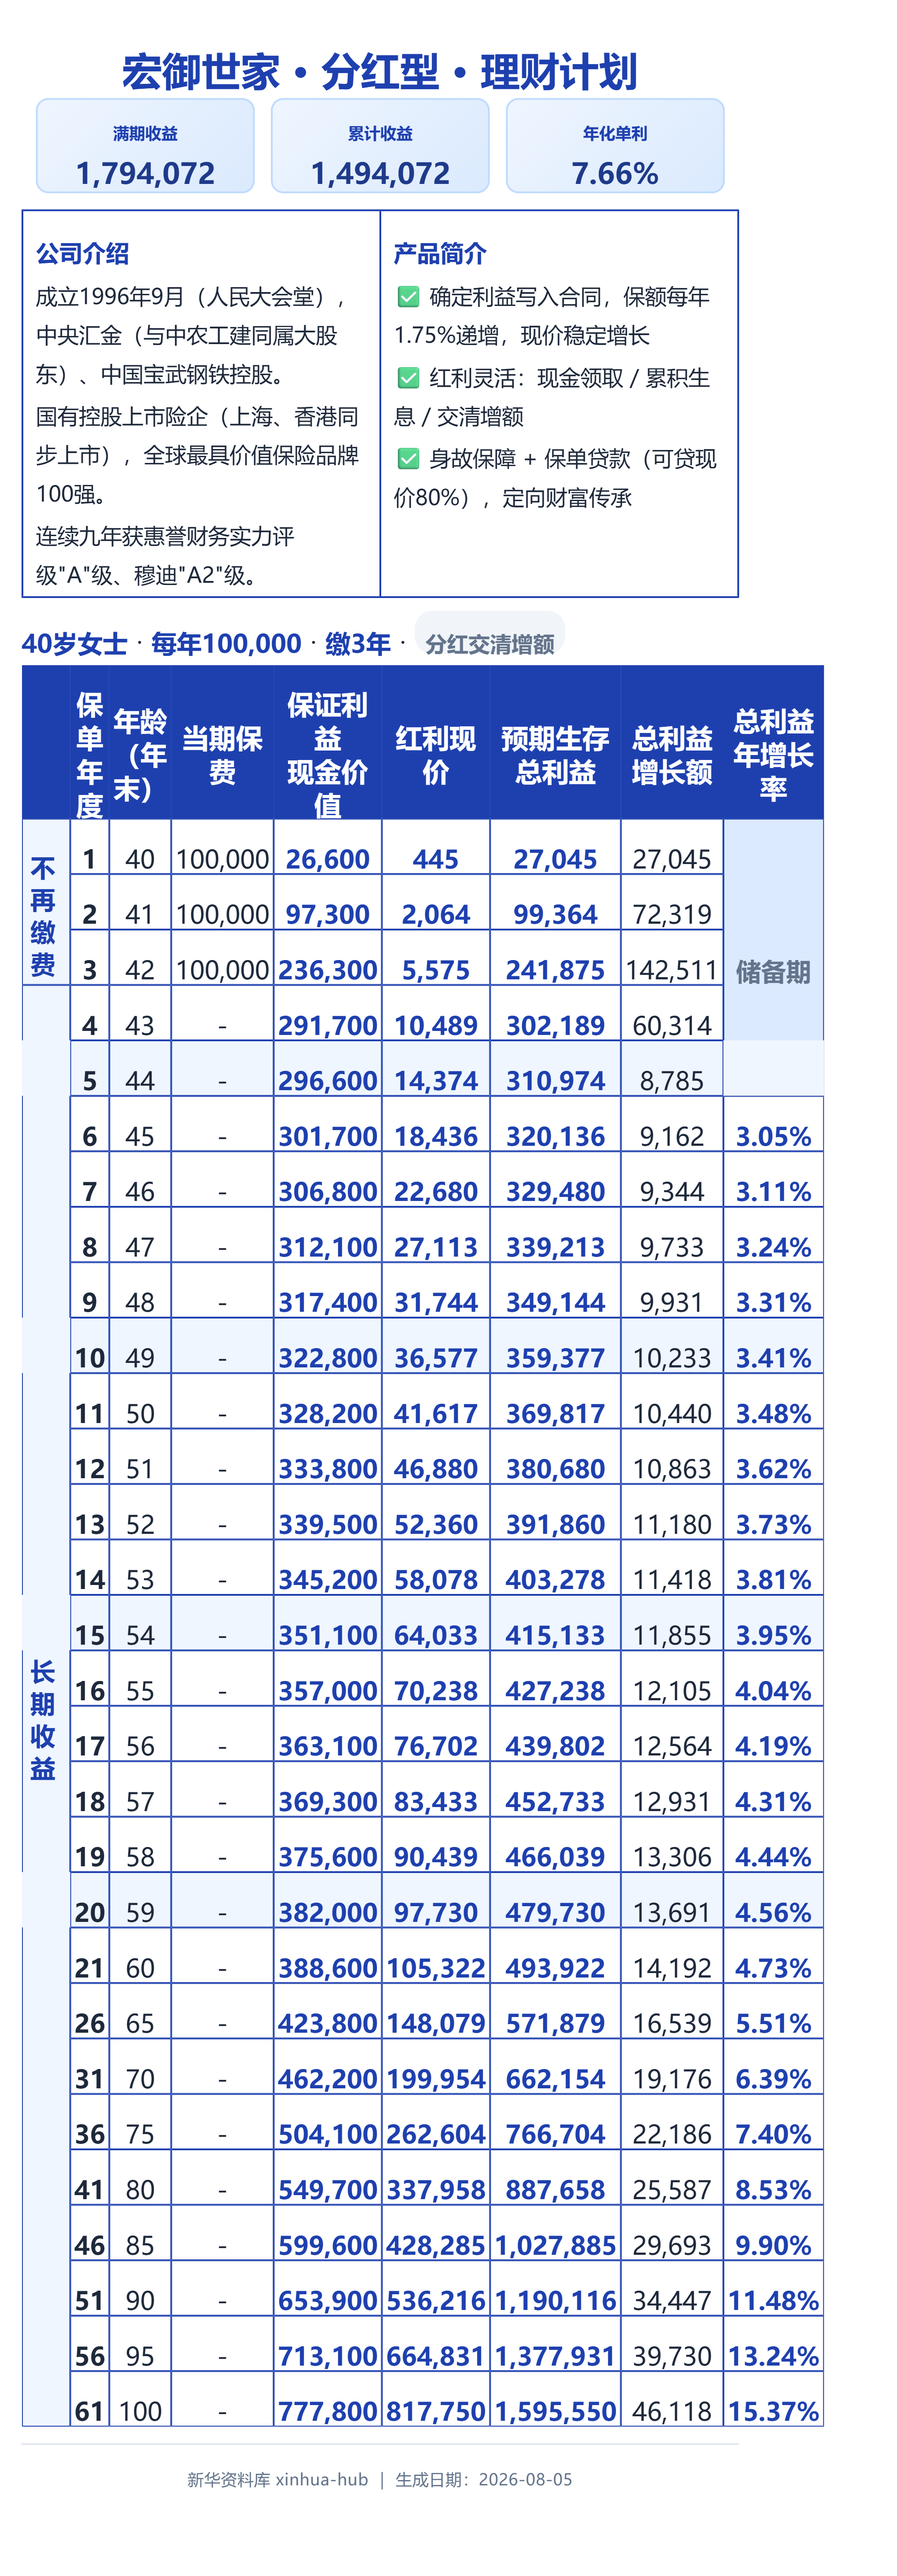
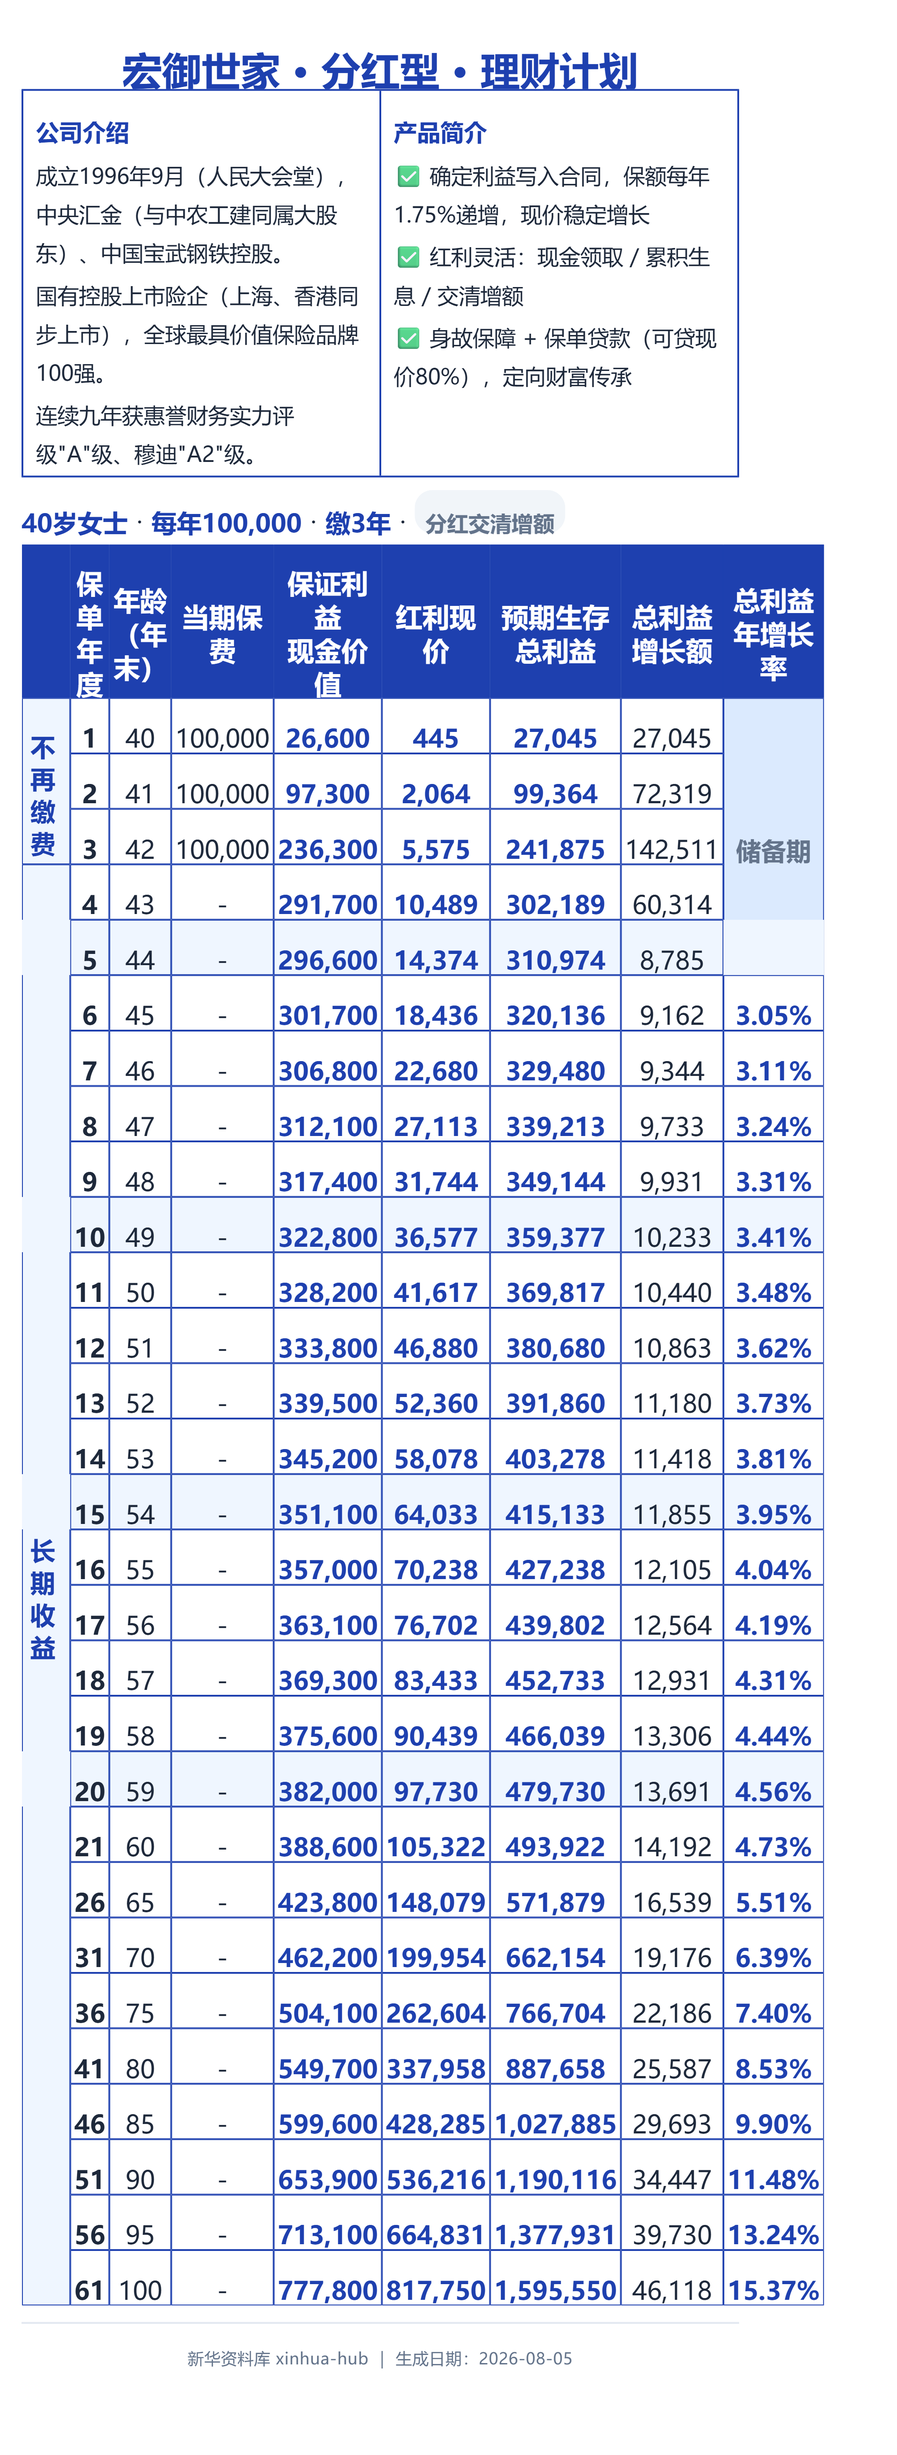
fix(acceptance): V4视觉优化①盈满鑫导出移除顶部三收益卡并统一表格垂直居中②全站五款导出隐藏顶部临时收益卡、修复宏安/宏愿卡片作用域bug、全表vertical-align:middle

diff --git a/calculator-yingmanxin.html b/calculator-yingmanxin.html
@@ -65,7 +65,7 @@ body.capturing .table-scroll{overflow-x:visible !important;}
 
 .top-info{display:block;}
 .info-table{width:100%;border-collapse:collapse;font-size:16px;border:2px solid var(--primary);table-layout:auto;}
-.info-table th,.info-table td{border:1px solid var(--primary);padding:8px 6px;text-align:center;white-space:nowrap;}
+.info-table th,.info-table td{border:1px solid var(--primary);padding:8px 6px;text-align:center;vertical-align:middle;white-space:nowrap;}
 .info-table th{background:var(--primary);color:#fff;font-weight:700;}
 .info-table td{background:#fff;color:#1E293B;font-weight:600;}
 .info-table td.label{background:var(--primary-bg);color:var(--primary);font-weight:700;}
@@ -166,7 +166,7 @@ body.capturing .table-scroll{overflow-x:visible !important;}
 .exp-h{background:var(--primary);color:#fff;font-size:18px;font-weight:700;padding:6px 8px;margin:-8px -10px 6px;box-sizing:border-box;}
 .exp-b{font-size:15px;line-height:1.45;color:#1E293B;}
 .exp-info{width:100%;border-collapse:collapse;table-layout:fixed;font-size:19px;border:2px solid var(--primary);box-sizing:border-box;}
-.exp-info th,.exp-info td{border:1px solid var(--primary);padding:5px 3px;text-align:center;box-sizing:border-box;font-weight:600;color:#1E293B;}
+.exp-info th,.exp-info td{border:1px solid var(--primary);padding:5px 3px;text-align:center;vertical-align:middle;box-sizing:border-box;font-weight:600;color:#1E293B;}
 .exp-info th{background:var(--primary-bg);color:var(--primary);font-weight:700;}
 .exp-stats{display:flex;gap:8px;margin-top:8px;flex-wrap:wrap;}
 .exp-stats span{background:var(--primary-bg);border:1px solid #BFDBFE;color:var(--primary);padding:5px 10px;font-weight:700;font-size:18px;border-radius:6px;}
@@ -181,11 +181,11 @@ body.capturing .table-scroll{overflow-x:visible !important;}
 .exp-main tbody tr:nth-child(even){background:#F0F9FF;}
 .exp-main .exp-total{background:#DBEAFE;}
 .exp-main .exp-reserve{background:#DBEAFE;color:#475569;font-weight:800;text-align:center;vertical-align:middle;font-size:20px;letter-spacing:1px;}
-.exp-dep tfoot td{border:1px solid var(--primary);padding:5px 2px;box-sizing:border-box;}
+.exp-dep tfoot td{border:1px solid var(--primary);padding:5px 2px;vertical-align:middle;box-sizing:border-box;}
 .exp-dep .exp-foot-label{text-align:right;font-weight:700;background:var(--primary-bg);color:var(--primary);}
 .exp-dep .exp-foot-val{font-weight:800;color:var(--primary);}
 .exp-combo{width:100%;border-collapse:collapse;table-layout:fixed;font-size:20px;box-sizing:border-box;}
-.exp-combo td{border:1px solid var(--primary);padding:4px 6px;box-sizing:border-box;width:25%;}
+.exp-combo td{border:1px solid var(--primary);padding:4px 6px;vertical-align:middle;box-sizing:border-box;width:25%;}
 .exp-combo .cl{background:var(--primary-bg);color:var(--primary);font-weight:700;}
 .exp-combo .cv{text-align:right;font-weight:700;color:#1E293B;}
 .exp-combo .hl{background:#DBEAFE;}
@@ -210,12 +210,6 @@ body.capturing .table-scroll{overflow-x:visible !important;}
   body.capturing .km-card{padding:18px 8px !important;border-radius:14px !important;border-width:2px !important;}
   body.capturing .km-label{font-size:18px !important;margin-bottom:8px !important;}
   body.capturing .km-val{font-size:32px !important;line-height:1.2 !important;}
-
-  /* 独立导出模板中的核心指标卡（与网页版指标卡数据一致） */
-  .exp-km{display:flex;gap:18px;margin:18px 0 12px;}
-  .exp-km .km-card{flex:1;background:linear-gradient(135deg,#EFF6FF 0%,#DBEAFE 100%);border:2px solid #BFDBFE;border-radius:14px;padding:18px 8px;text-align:center;box-sizing:border-box;}
-  .exp-km .km-label{font-size:18px;color:#1E40AF;font-weight:700;margin-bottom:8px;line-height:1.1;}
-  .exp-km .km-val{font-size:32px;font-weight:800;color:#1E3A8A;line-height:1.2;word-break:break-word;}
 
 </style>
 </head>
@@ -708,12 +702,6 @@ function buildExport(rows, dep, p, reserveYears){
   root.innerHTML = `
   <div class="exp-wrap">
     <div class="exp-title">盈满鑫两全保险 · 分红型 · 理财计划书</div>
-
-    <div class="exp-km">
-      <div class="km-card"><div class="km-label">满期收益</div><div class="km-val">${document.getElementById('kmMaturity') ? document.getElementById('kmMaturity').textContent : '—'}</div></div>
-      <div class="km-card"><div class="km-label">累计收益</div><div class="km-val">${document.getElementById('kmCum') ? document.getElementById('kmCum').textContent : '—'}</div></div>
-      <div class="km-card"><div class="km-label">年化单利</div><div class="km-val">${document.getElementById('kmRate') ? document.getElementById('kmRate').textContent : '—'}</div></div>
-    </div>
 
     <div class="exp-row2">
       <div class="exp-box">

diff --git a/calculator-hongan.html b/calculator-hongan.html
@@ -56,7 +56,7 @@ input,select{padding:9px 12px;border:1.5px solid var(--line);border-radius:8px;f
 
 .top-info{display:block;}
 .info-table{width:100%;border-collapse:collapse;font-size:14px;border:2px solid var(--primary);table-layout:auto;}
-.info-table th,.info-table td{border:1px solid var(--primary);padding:8px 6px;text-align:center;white-space:nowrap;}
+.info-table th,.info-table td{border:1px solid var(--primary);padding:8px 6px;text-align:center;vertical-align:middle;white-space:nowrap;}
 .info-table th{background:var(--primary);color:#fff;font-weight:700;}
 .info-table td{background:#fff;color:#1E293B;font-weight:600;}
 .info-table td.label{background:var(--primary-bg);color:var(--primary);font-weight:700;}
@@ -87,7 +87,7 @@ body.capturing .info-table td{white-space:nowrap !important;}
 body.capturing .intro-row,.body.capturing .stats-row,.body.capturing .stat-inline-box{font-size:26px !important;line-height:1.7 !important;}
 body.capturing .reserve-merged{font-size:28px !important;font-weight:800 !important;color:#475569 !important;letter-spacing:1px !important;}
 body.capturing .exp-foot-bar{display:block !important;box-sizing:border-box;margin:18px 0 0;padding:14px 16px;font-size:18px !important;color:#64748B;border-top:2px solid #E2E8F0;text-align:center;letter-spacing:.5px;}
-body.capturing .key-metrics{display:flex !important;gap:18px !important;margin:24px 0 18px !important;}
+body.capturing .key-metrics{display:none !important;}
 body.capturing .km-card{padding:18px 8px !important;border-radius:14px !important;border-width:2px !important;}
 body.capturing .km-label{font-size:18px !important;margin-bottom:8px !important;}
 body.capturing .km-val{font-size:32px !important;line-height:1.2 !important;}
@@ -470,8 +470,8 @@ function generate(){
   document.getElementById('statRate').textContent = (currentRate * 100).toFixed(2) + '%';
 
   updateFormText();
-}
   (function(){var km=document.getElementById('keyMetrics');if(!km)return;var lr=rows[rows.length-1];document.getElementById('kmMaturity').textContent=fmt(lr.survival);document.getElementById('kmCum').textContent=fmt(lastSurvival-totalPrem);document.getElementById('kmRate').textContent=((lastSurvival-totalPrem)/(totalPrem*maxYear)*100).toFixed(2)+'%';})();
+}
 
 async function downloadImage(){
   document.body.classList.add('capturing');

diff --git a/calculator-hongyuan.html b/calculator-hongyuan.html
@@ -43,7 +43,7 @@ body.capturing .intro-row,.body.capturing .side-stats{font-size:26px !important;
 body.capturing .reserve-cell{font-size:28px !important;font-weight:800 !important;color:#475569 !important;letter-spacing:1px !important;}
 body.capturing .exp-foot-bar{display:block !important;box-sizing:border-box;margin:18px 0 0;padding:14px 16px;font-size:18px !important;color:#64748B;border-top:2px solid #E2E8F0;text-align:center;letter-spacing:.5px;}
 .exp-foot-bar{display:none;}
-body.capturing .key-metrics{display:flex !important;gap:18px !important;margin:24px 0 18px !important;}
+body.capturing .key-metrics{display:none !important;}
 body.capturing .km-card{padding:18px 8px !important;border-radius:14px !important;border-width:2px !important;}
 body.capturing .km-label{font-size:18px !important;margin-bottom:8px !important;}
 body.capturing .km-val{font-size:32px !important;line-height:1.2 !important;}
@@ -75,7 +75,7 @@ body.capturing .info-table th,body.capturing .info-table td{padding:8px 6px !imp
 
 .top-info{display:block;}
 .info-table{width:100%;border-collapse:collapse;font-size:14px;border:2px solid var(--primary);table-layout:auto;}
-.info-table th,.info-table td{border:1px solid var(--primary);padding:8px 6px;text-align:center;white-space:nowrap;}
+.info-table th,.info-table td{border:1px solid var(--primary);padding:8px 6px;text-align:center;vertical-align:middle;white-space:nowrap;}
 .info-table th{background:var(--primary);color:#fff;font-weight:700;}
 .info-table td{background:#fff;color:#1E293B;font-weight:600;}
 .info-table td.label{background:var(--primary-bg);color:var(--primary);font-weight:700;}
@@ -458,8 +458,8 @@ function generate(){
     `VIP${genderStr}，今年${age}周岁，${cfg.label}、年交${fmt(premium)}元，购买宏愿人生养老年金 （分红型），${annuityAge}岁起领（${modeStr}）`;
 
   updateFormText();
-}
   (function(){var km=document.getElementById('keyMetrics');if(!km)return;var lr=rows[rows.length-1];document.getElementById('kmMaturity').textContent=fmt(lr.survival);document.getElementById('kmCum').textContent=fmt(lr.survival-totalPrem);document.getElementById('kmRate').textContent=((lr.survival-totalPrem)/(totalPrem*maxYear)*100).toFixed(2)+'%';})();
+}
 
 async function downloadImage(){
   document.body.classList.add('capturing');

diff --git a/calculator-hongyu.html b/calculator-hongyu.html
@@ -39,7 +39,7 @@ table{width:100%;border-collapse:collapse;font-size:14px;min-width:860px;}
 thead th{background:#1E40AF;color:#fff;padding:11px 8px;text-align:center;font-weight:700;font-size:17px;position:sticky;top:0;}
 tbody td{font-size:17px;padding:10px 6px;text-align:center;border-bottom:1px solid var(--line);white-space:nowrap;}
 /* 表格边框统一：与宏安/宏愿/盈满鑫一致，全网格 1px #1E40AF（2026-08-05 V4验收） */
-#resultTable th,#resultTable td{border:1px solid #1E40AF;}
+#resultTable th,#resultTable td{border:1px solid #1E40AF;vertical-align:middle;}
 tbody tr.row-5y{background:#EFF6FF;}
 tbody tr.row-last{background:#DBEAFE;}
 tbody tr.row-5y td,tbody tr.row-last td{background:transparent;}
@@ -106,7 +106,7 @@ body.capturing table{min-width:0 !important;font-size:var(--cap-fs,28px) !import
 body.capturing thead th{position:static !important;font-size:calc(var(--cap-fs,28px) + 2px) !important;line-height:1.25 !important;padding:10px 4px !important;white-space:normal !important;}
 body.capturing tbody td{font-size:var(--cap-fs,28px) !important;padding:8px 4px !important;white-space:nowrap !important;}
 body.capturing .table-scroll{overflow:visible !important;}
-body.capturing .key-metrics{display:flex !important;gap:18px !important;margin:24px 0 18px !important;}
+body.capturing .key-metrics{display:none !important;}
 body.capturing .km-card{padding:18px 8px !important;border-radius:14px !important;border-width:2px !important;}
 body.capturing .km-label{font-size:18px !important;margin-bottom:8px !important;}
 body.capturing .km-val{font-size:32px !important;line-height:1.2 !important;}

diff --git a/calculator-hengxiang.html b/calculator-hengxiang.html
@@ -36,7 +36,7 @@
   thead th{background:#1E3A5F;color:#fff;padding:10px 8px;text-align:center;font-weight:700;font-size:17px;position:sticky;top:0;}
   tbody td{font-size:17px;padding:9px 6px;text-align:center;border-bottom:1px solid var(--line);white-space:nowrap;}
   /* 表格边框统一：与宏安/宏御/宏愿一致，全网格 1px #1E40AF（2026-08-05 V4验收） */
-  #resultTable th,#resultTable td{border:1px solid #1E40AF;}
+  #resultTable th,#resultTable td{border:1px solid #1E40AF;vertical-align:middle;}
   tbody tr.row-5y{background:#EFF6FF;}
   tbody tr.row-last{background:#FDE68A;}
   tbody tr.row-5y td, tbody tr.row-last td{background:transparent;}
@@ -92,7 +92,7 @@ body.capturing .plan-intro p{font-size:24px !important;line-height:1.8 !importan
 body.capturing .plan-intro h4{font-size:24px !important;}
 body.capturing .exp-foot-bar{display:block !important;box-sizing:border-box;margin:18px 0 0;padding:14px 16px;font-size:18px !important;color:#64748B;border-top:2px solid #E2E8F0;text-align:center;letter-spacing:.5px;}
 .exp-foot-bar{display:none;}
-body.capturing .key-metrics{display:flex !important;gap:18px !important;margin:24px 0 18px !important;}
+body.capturing .key-metrics{display:none !important;}
 body.capturing .km-card{padding:18px 8px !important;border-radius:14px !important;border-width:2px !important;}
 body.capturing .km-label{font-size:18px !important;margin-bottom:8px !important;}
 body.capturing .km-val{font-size:32px !important;line-height:1.2 !important;}
